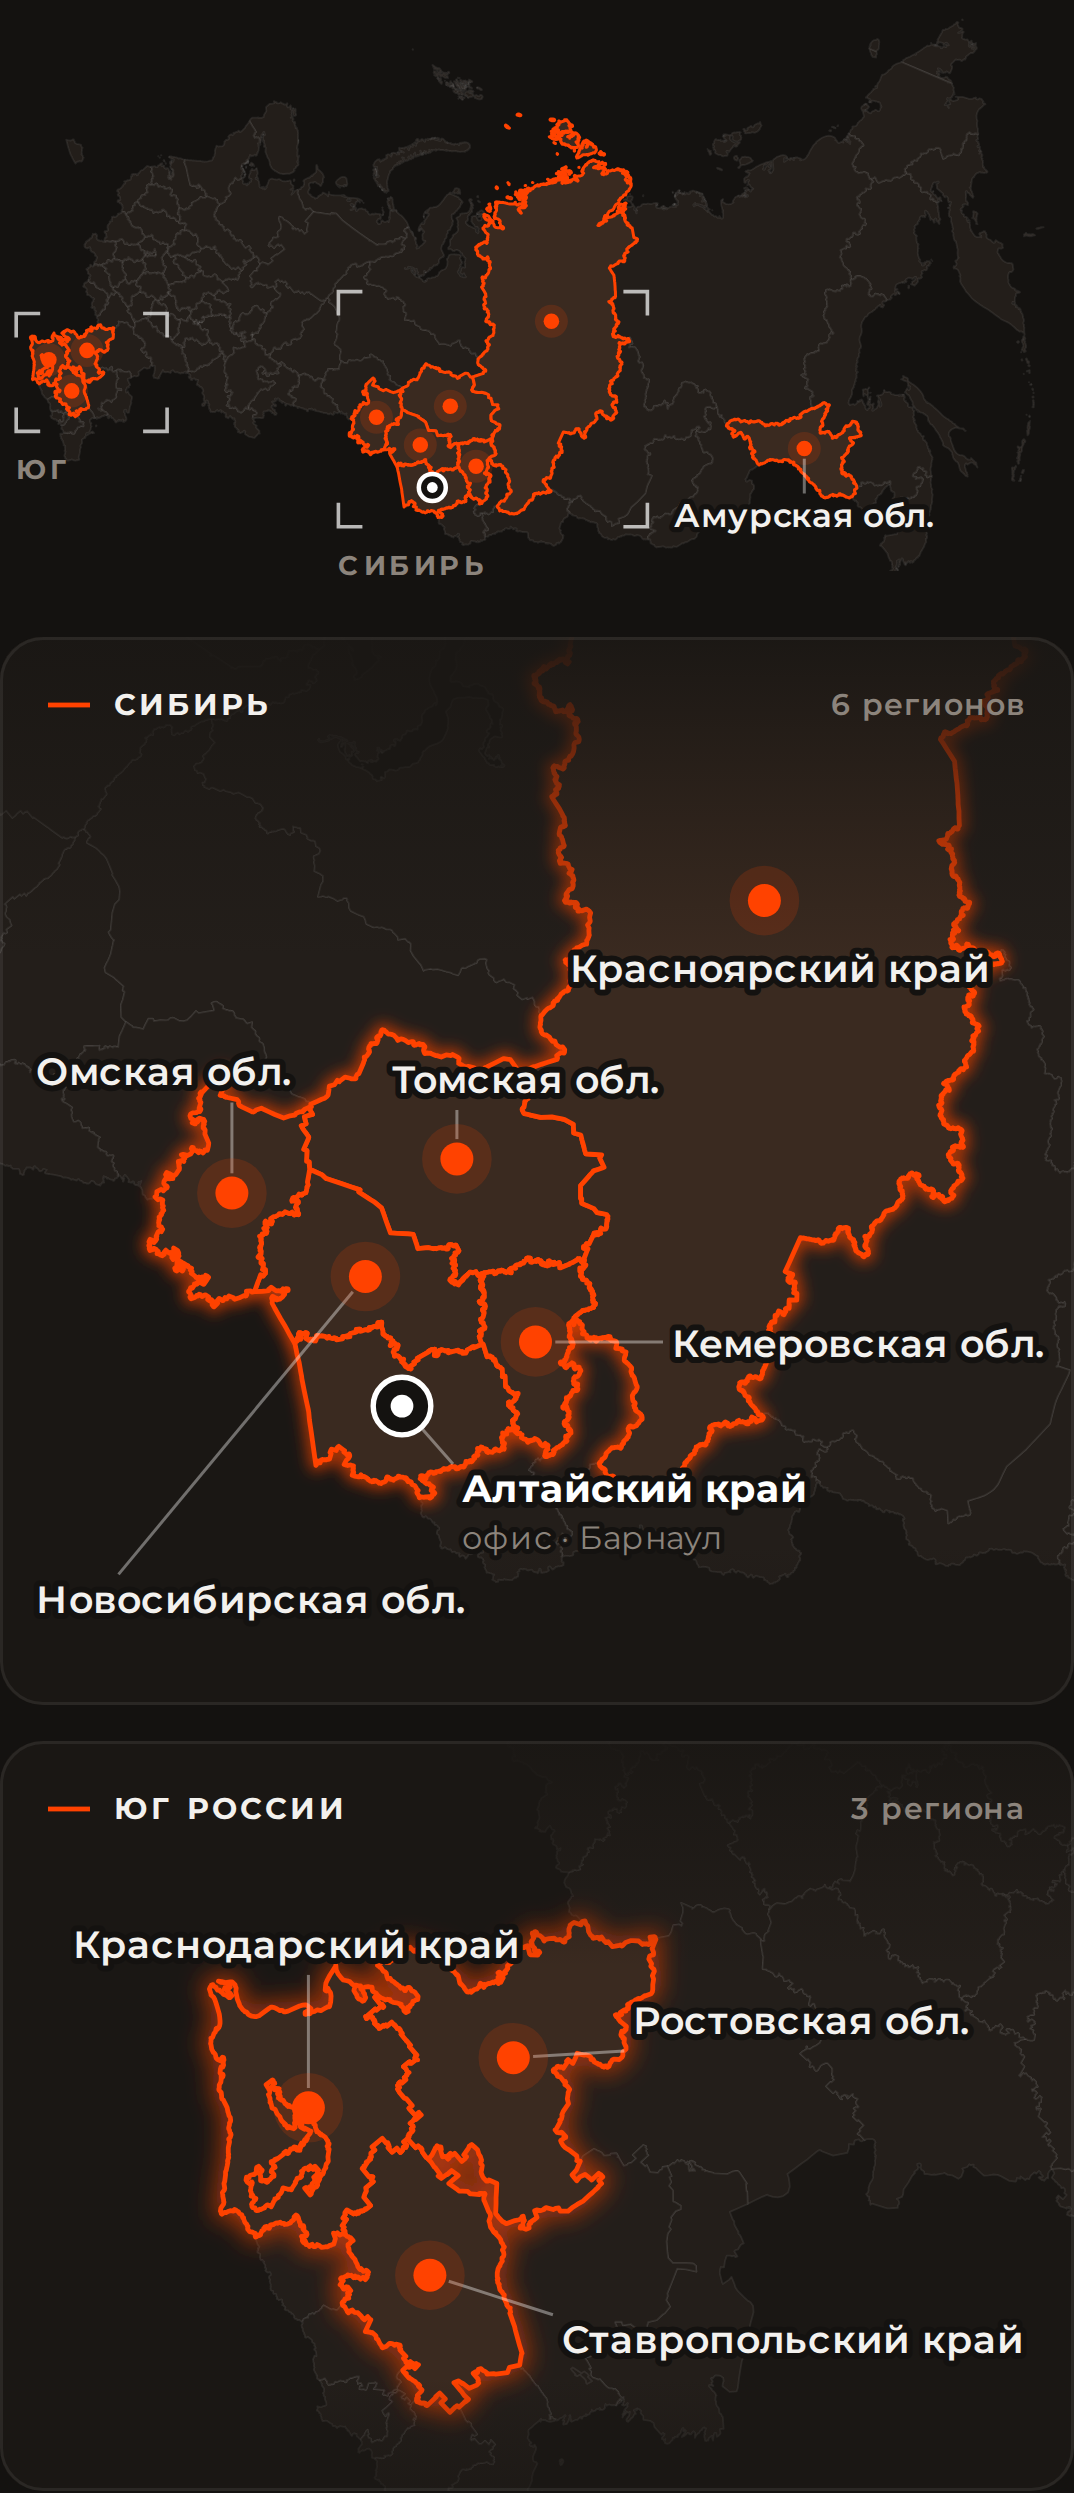
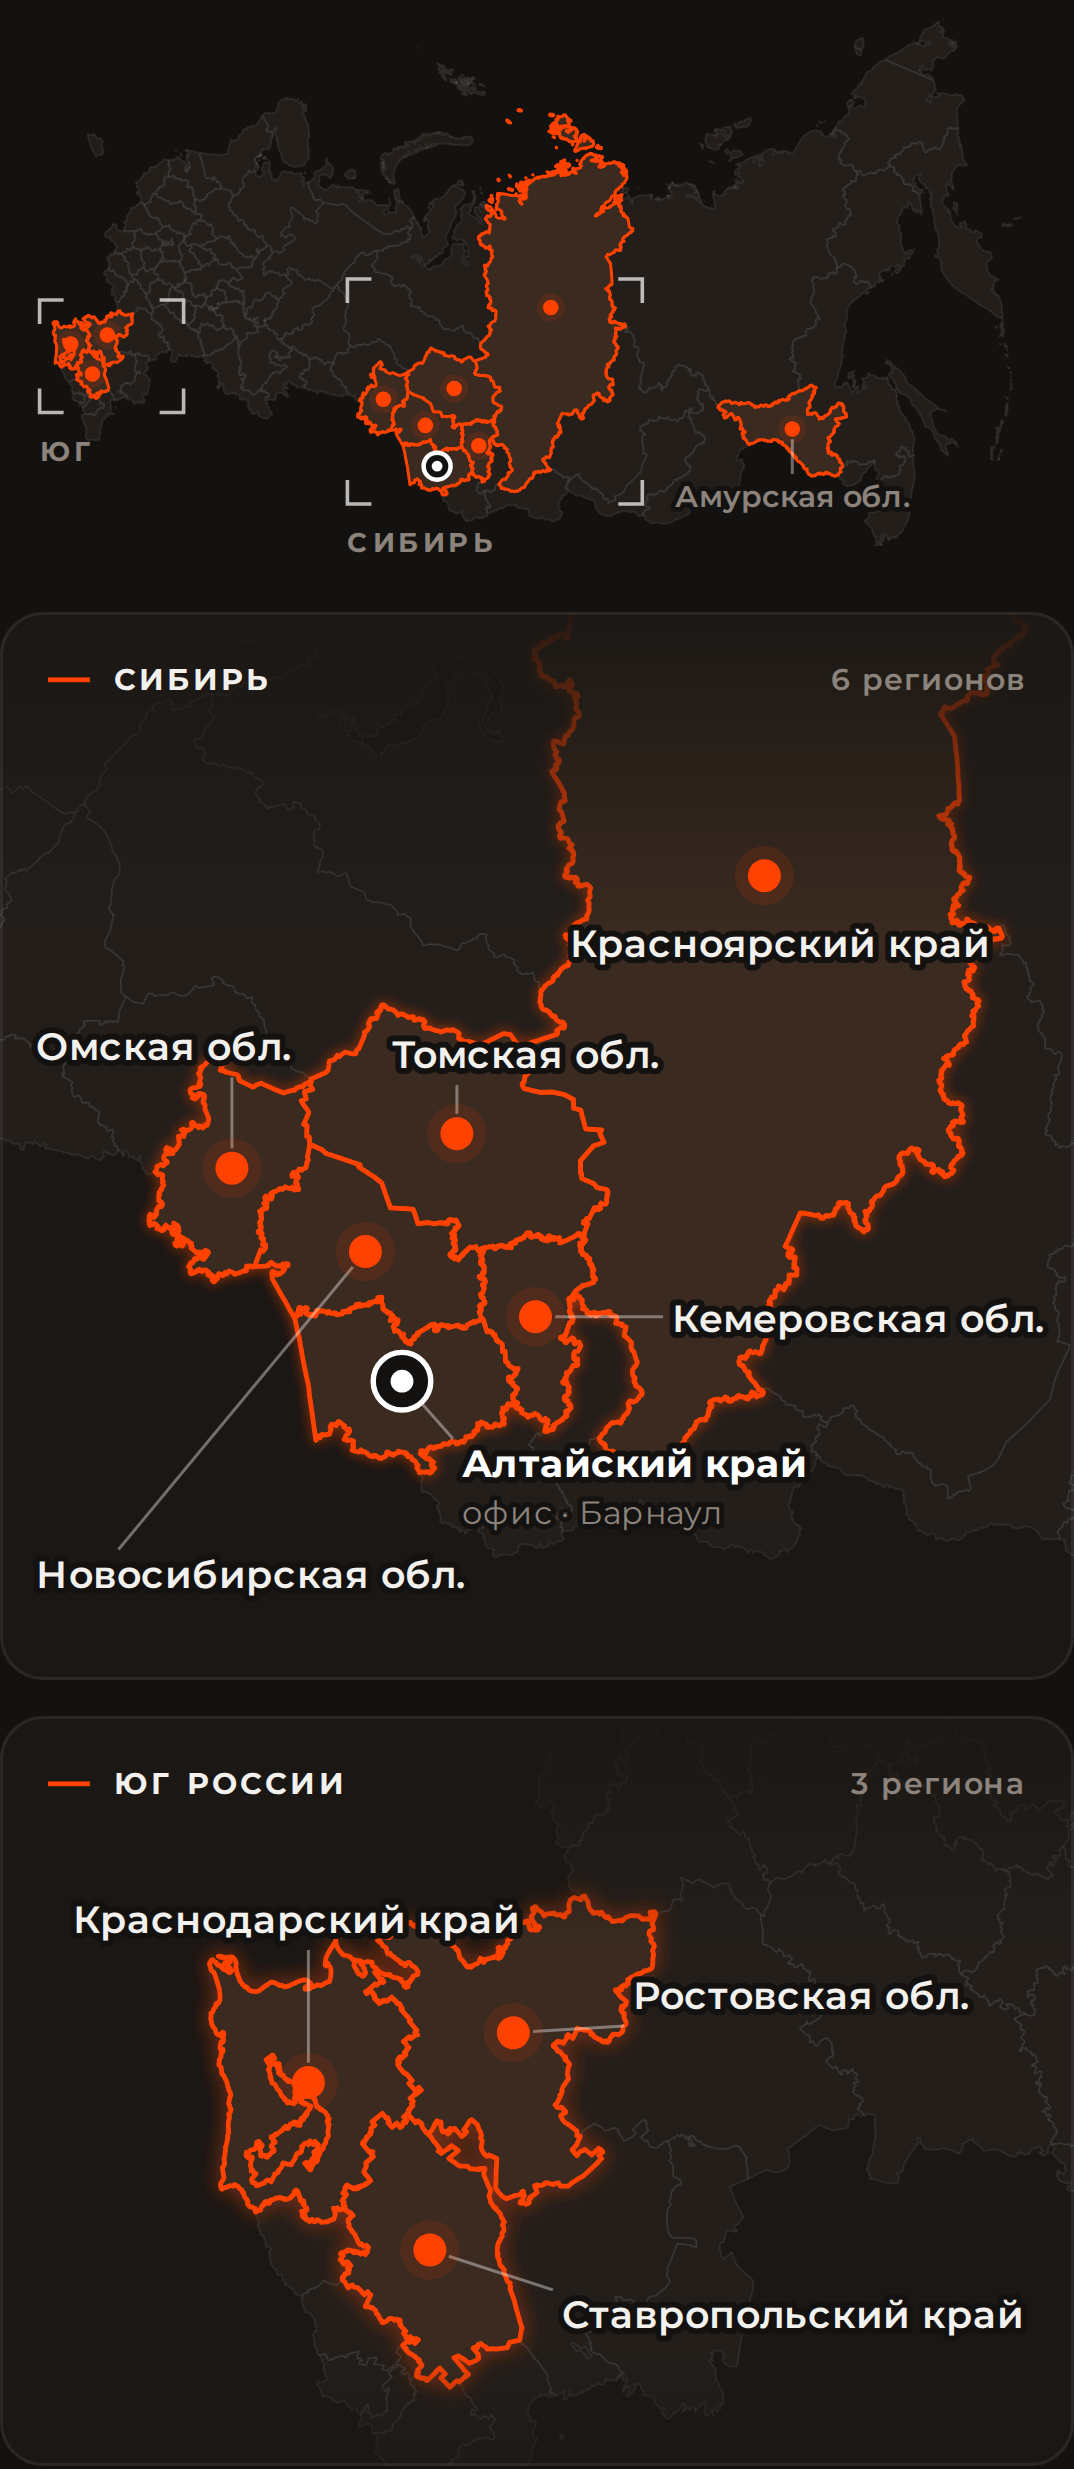
Карта v2: свечение тише, подпись Амурской спокойнее, рамка не у края, Сибирь первой
Claude-Session: https://claude.ai/code/session_017Yu2wUyZks2ZT3AxJsvZAM

diff --git a/design/geo-map/build_map_adaptive.py b/design/geo-map/build_map_adaptive.py
@@ -52,7 +52,7 @@ for nm, rr, t in all_regions:
         for ring in rr:
             defs.append(f'<path d="{path(ring)}" fill="{HIL}" vector-effect="non-scaling-stroke" stroke-linejoin="round"/>')
 defs.append('</g>')
-defs.append('<filter id="glow" x="-20%" y="-20%" width="140%" height="140%"><feGaussianBlur stdDeviation="3"/></filter>')
+defs.append('<filter id="glow" x="-20%" y="-20%" width="140%" height="140%"><feGaussianBlur stdDeviation="2.5"/></filter>')
 defs.append('<linearGradient id="scrim" x1="0" y1="0" x2="0" y2="1"><stop offset="0" stop-color="#1A1714" stop-opacity=".97"/><stop offset=".13" stop-color="#1A1714" stop-opacity=".55"/><stop offset=".3" stop-color="#1A1714" stop-opacity="0"/><stop offset=".85" stop-color="#1A1714" stop-opacity="0"/><stop offset="1" stop-color="#1A1714" stop-opacity=".6"/></linearGradient>')
 defs.append('<radialGradient id="vign" cx="50%" cy="45%" r="70%"><stop offset="0" stop-color="#FF4200" stop-opacity=".07"/><stop offset="1" stop-color="#FF4200" stop-opacity="0"/></radialGradient>')
 defs.append('</defs>')
@@ -81,7 +81,7 @@ class Panel:
         out.append(f'<g clip-path="url(#{cid})"><g transform="{tr}">')
         out.append('<use href="#land"/>')
         if glow:
-            out.append(f'<use href="#hil" fill="none" stroke="{ORANGE}" stroke-opacity=".55" stroke-width="{hil_w * 3}" filter="url(#glow)"/>')
+            out.append(f'<use href="#hil" fill="none" stroke="{ORANGE}" stroke-opacity=".28" stroke-width="{hil_w * 2.2}" filter="url(#glow)"/>')
         out.append(f'<use href="#hil" stroke="{HILS}" stroke-width="{hil_w}"/>')
         out.append('</g></g>')
 
@@ -91,7 +91,7 @@ def dot(out, x, y, r, office=False):
         out.append(f'<circle cx="{x:.1f}" cy="{y:.1f}" r="{r * 1.75:.1f}" fill="{BG}" stroke="#fff" stroke-width="{max(1.5, r * .32):.1f}"/>'
                    f'<circle cx="{x:.1f}" cy="{y:.1f}" r="{r * .7:.1f}" fill="#fff"/>')
     else:
-        out.append(f'<circle cx="{x:.1f}" cy="{y:.1f}" r="{r * 2.1:.1f}" fill="{ORANGE}" fill-opacity=".16"/>'
+        out.append(f'<circle cx="{x:.1f}" cy="{y:.1f}" r="{r * 1.8:.1f}" fill="{ORANGE}" fill-opacity=".12"/>'
                    f'<circle cx="{x:.1f}" cy="{y:.1f}" r="{r:.1f}" fill="{ORANGE}"/>')
 
 
@@ -196,7 +196,7 @@ def overview(out, X, Y, W, fs, r, amur):
     ax, ay = p.pin("Амурская область")
     dx, dy, anc = amur
     leader(out, [(ax, ay + r * 1.3), (ax + dx, ay + dy - fs - 1)])
-    label(out, "Амурская обл.", ax + dx, ay + dy, fs + 1, anc)
+    label(out, "Амурская обл.", ax + dx, ay + dy, fs, anc, 600, MUTED)
     return H
 
 
@@ -211,7 +211,7 @@ def inset(out, view, X, Y, W, H, title, count, spec, fs_head, fs_lab, r, pad_top
 
 def mobile(out, W):
     y = 4
-    y += overview(out, 0, y, W, 10, 2.6, (0, 26, "middle")) + 22
+    y += overview(out, 8, y, W - 16, 10, 2.6, (0, 26, "middle")) + 22
     hs = 356
     inset(out, SIB, 0, y, W, hs, "СИБИРЬ", "6 регионов", SIB_LAB, 10, 12.5, 5.5)
     y += hs + 12
@@ -222,10 +222,10 @@ def mobile(out, W):
 
 def tablet(out, W):
     y = 4
-    y += overview(out, 0, y, W, 12, 4, (0, 34, "middle")) + 26
+    y += overview(out, 10, y, W - 20, 12, 4, (0, 34, "middle")) + 26
     gap = 16; cw = (W - gap) / 2; h = 380
-    inset(out, SOUTH, 0, y, cw, h, "ЮГ РОССИИ", "3 региона", SOUTH_LAB, 10.5, 13, 6)
-    inset(out, SIB, cw + gap, y, cw, h, "СИБИРЬ", "6 регионов", SIB_LAB, 10.5, 13, 6)
+    inset(out, SIB, 0, y, cw, h, "СИБИРЬ", "6 регионов", SIB_LAB, 10.5, 13, 6)
+    inset(out, SOUTH, cw + gap, y, cw, h, "ЮГ РОССИИ", "3 региона", SOUTH_LAB, 10.5, 13, 6)
     return y + h
 
 
